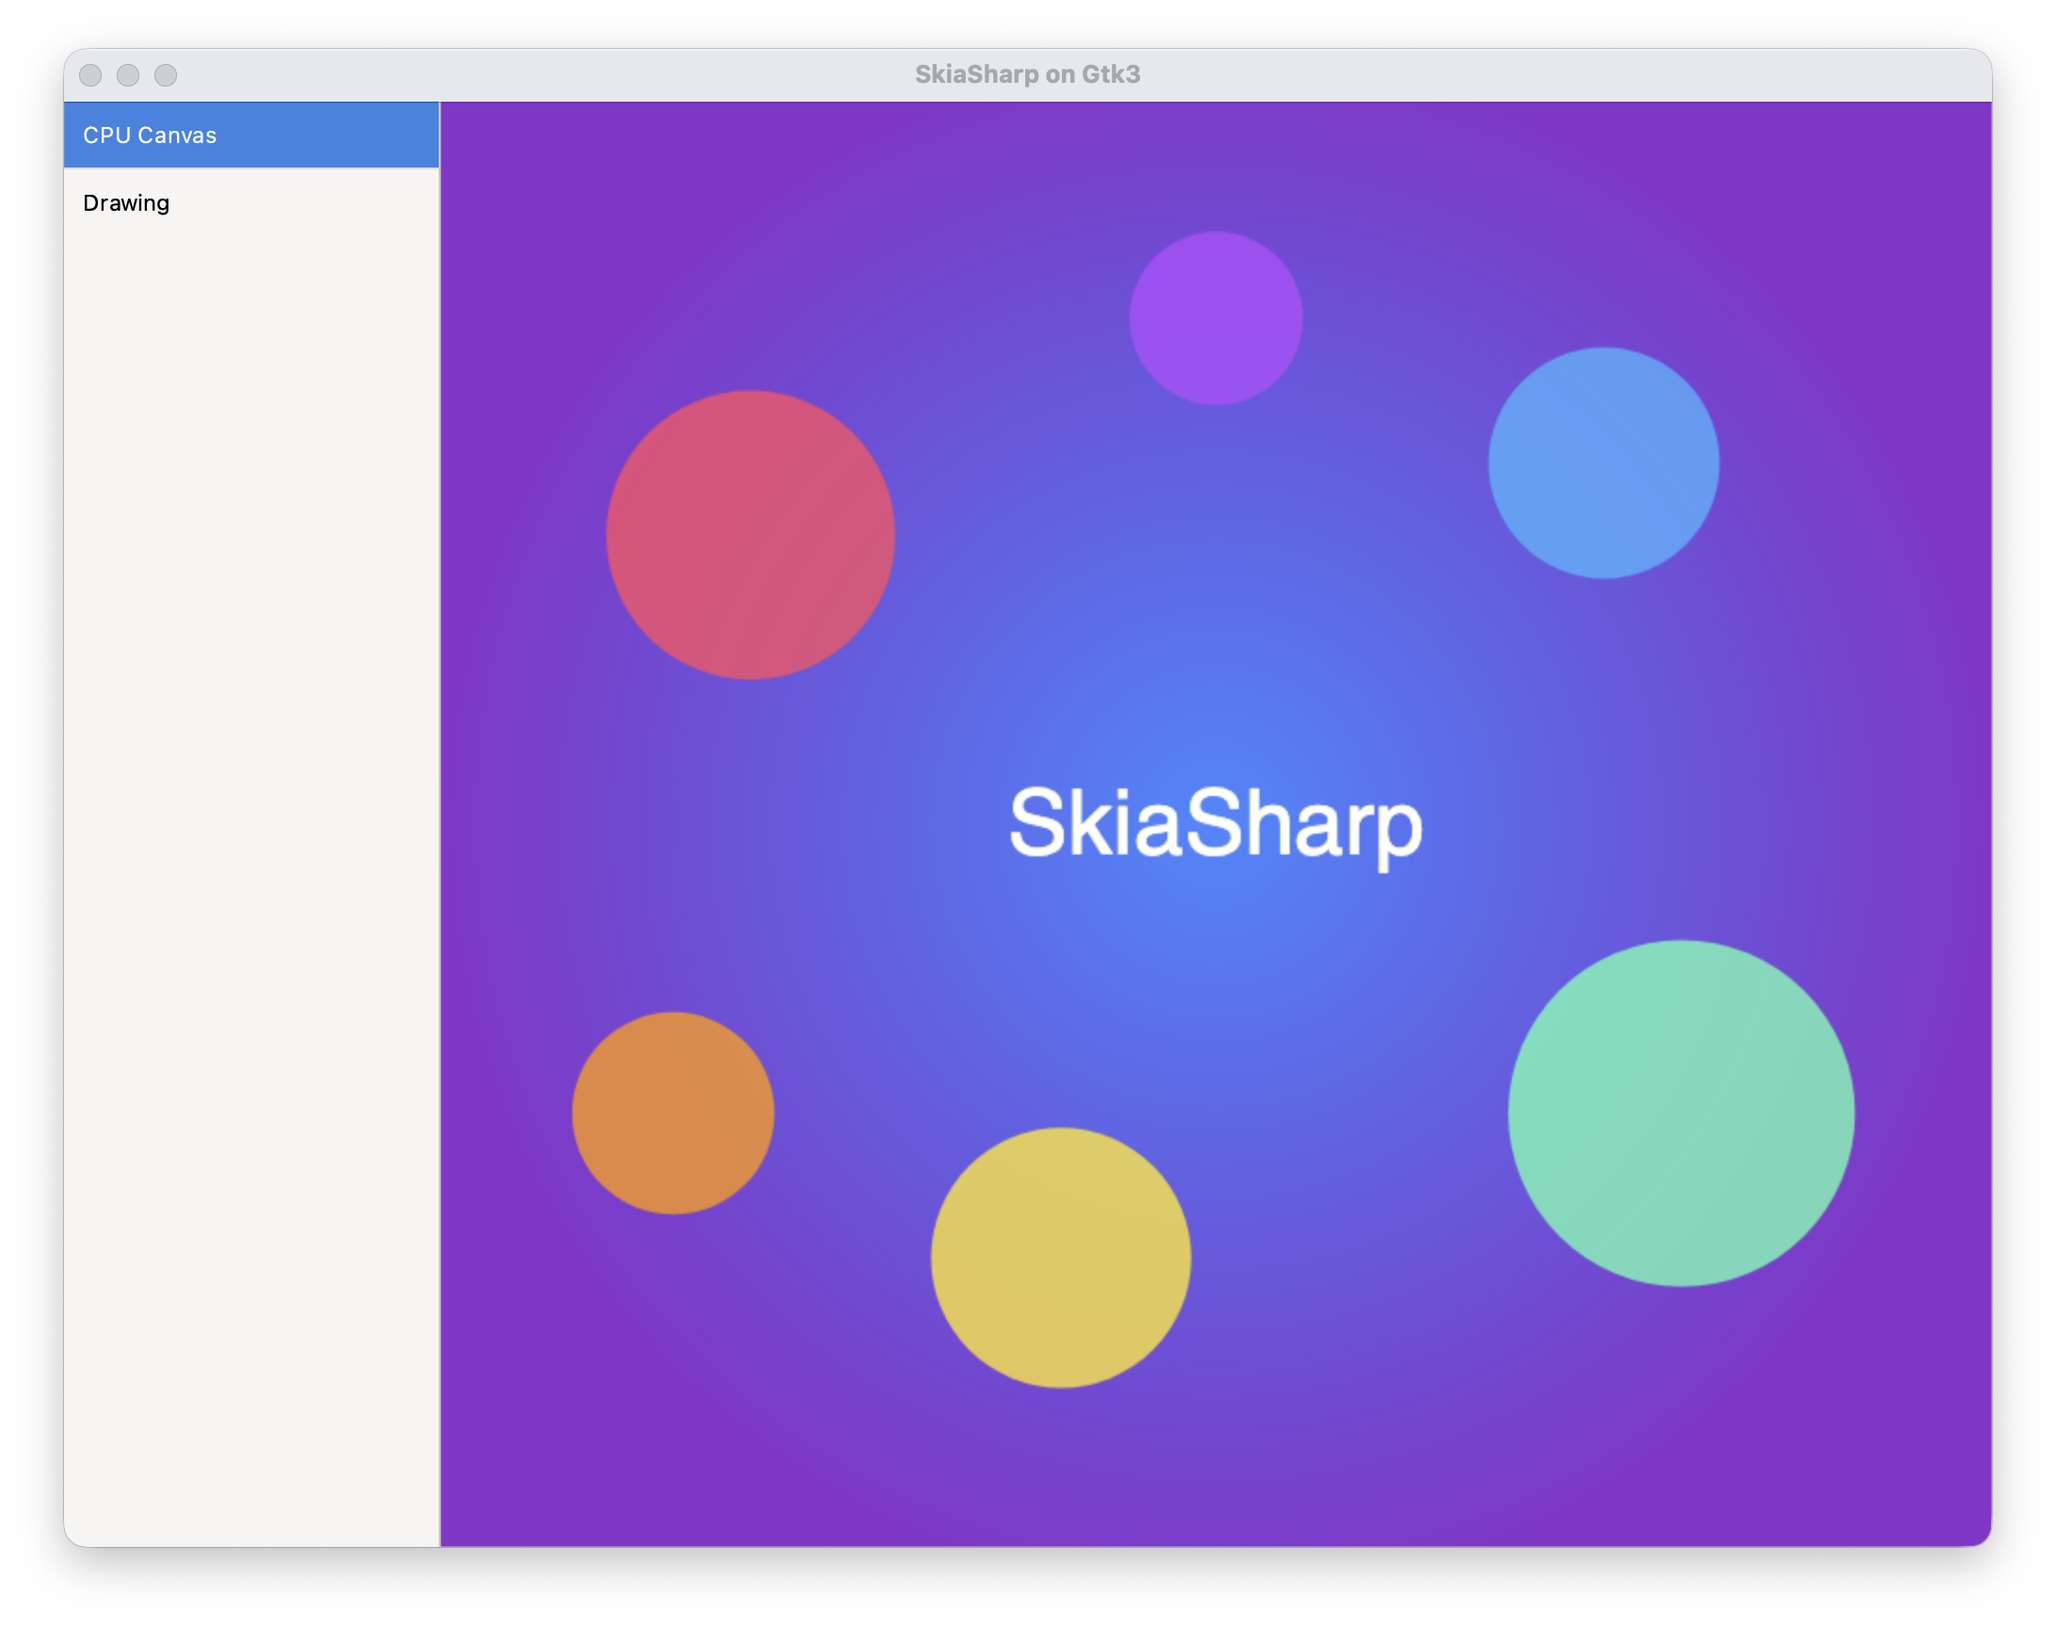
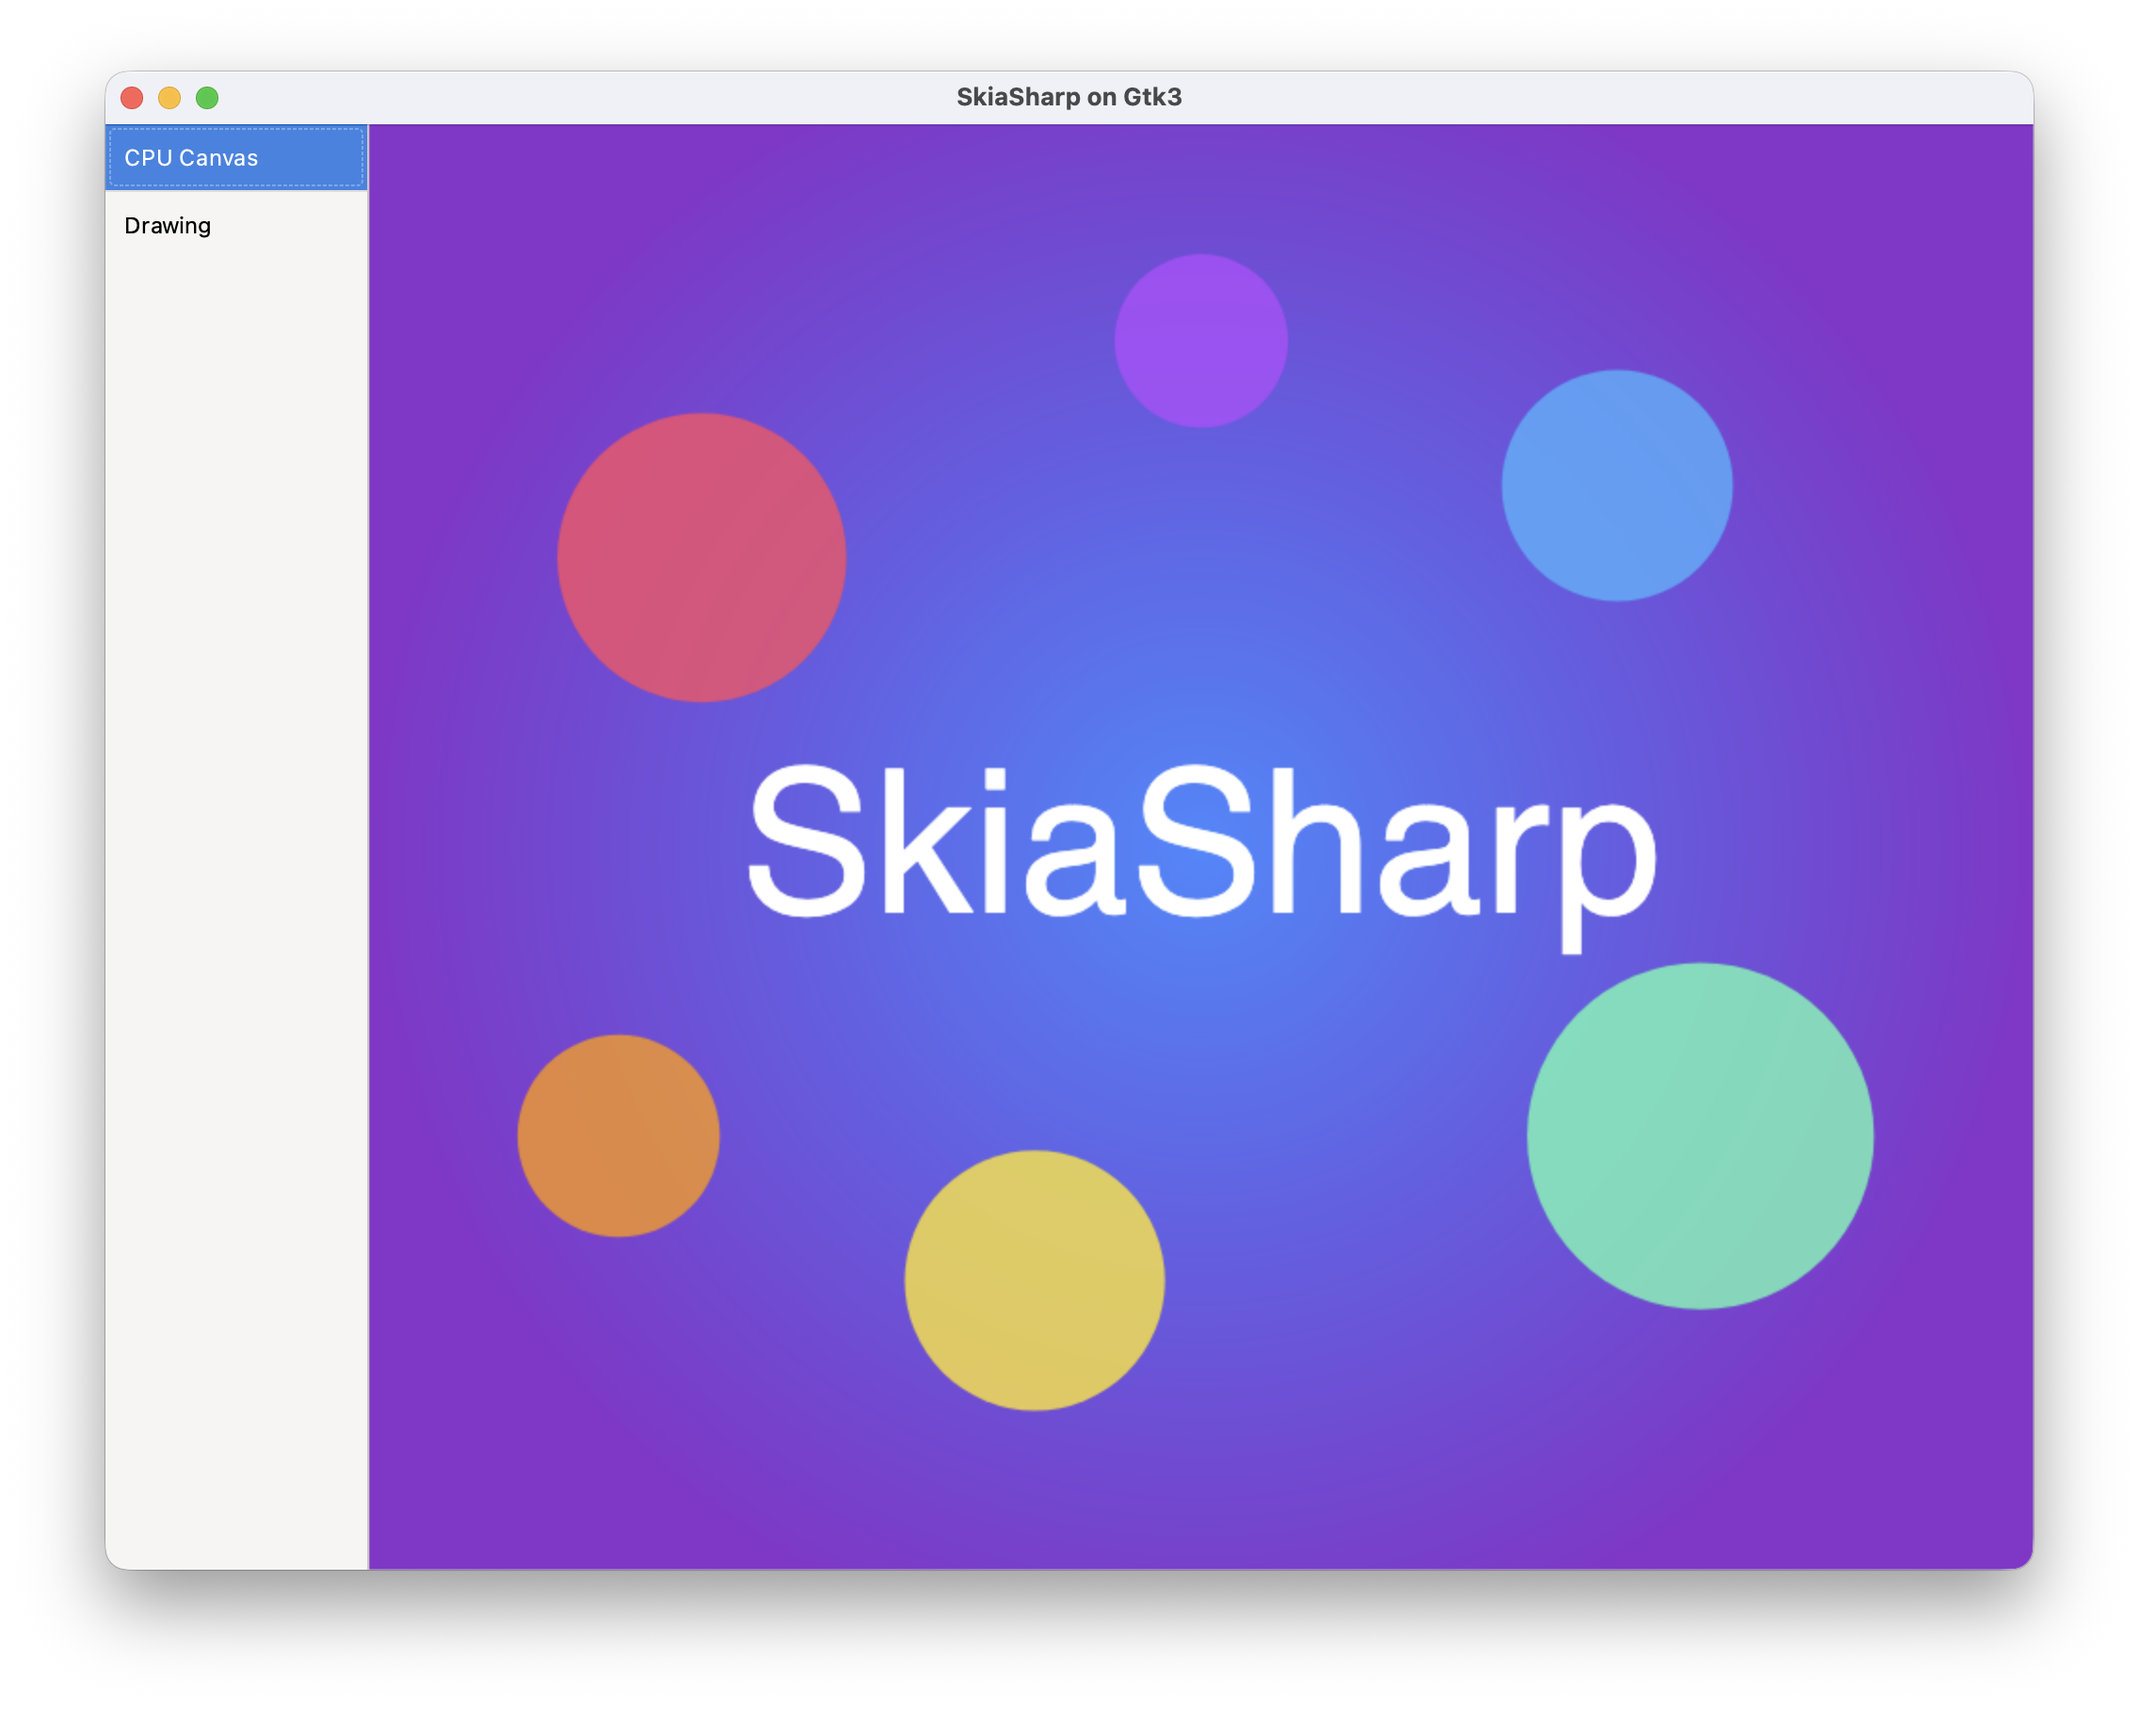
Update Gtk3/Gtk4 screenshots and fix GTK4 Cairo assertion crash
- Capture fresh Gtk3 CPU and Drawing page screenshots
- Capture fresh Gtk4 Drawing page screenshot
- Remove libadwaita from Gtk4 README requirements (not used)
- Fix Cairo assertion crash in SKDrawingArea (Gtk4): call pix.Flush()
  before pix.MarkDirty() to release snapshot references
- Revert temporary demo strokes from Gtk3 DrawingPage.cs

diff --git a/source/SkiaSharp.Views/SkiaSharp.Views.Gtk4/SKDrawingArea.cs b/source/SkiaSharp.Views/SkiaSharp.Views.Gtk4/SKDrawingArea.cs
@@ -41,6 +41,8 @@ namespace SkiaSharp.Views.Gtk
 
 			surface.Canvas.Flush();
 
+			// Flush any existing Cairo snapshots before marking dirty
+			pix.Flush();
 			pix.MarkDirty();
 
 			// swap R and B

diff --git a/samples/Basic/Gtk4/README.md b/samples/Basic/Gtk4/README.md
@@ -33,10 +33,10 @@ A freehand drawing canvas with a color palette, brush size label, and clear butt
 ## Requirements
 
 - [.NET 8 SDK](https://dotnet.microsoft.com/download) or later
-- GTK 4 and libadwaita development libraries:
-  - **macOS:** `brew install gtk4 libadwaita`
-  - **Ubuntu/Debian:** `sudo apt-get install libgtk-4-dev libadwaita-1-dev`
-  - **Fedora:** `sudo dnf install gtk4-devel libadwaita-devel`
+- GTK 4 development libraries:
+  - **macOS:** `brew install gtk4`
+  - **Ubuntu/Debian:** `sudo apt-get install libgtk-4-dev`
+  - **Fedora:** `sudo dnf install gtk4-devel`
 
 ## Running the Sample
 
